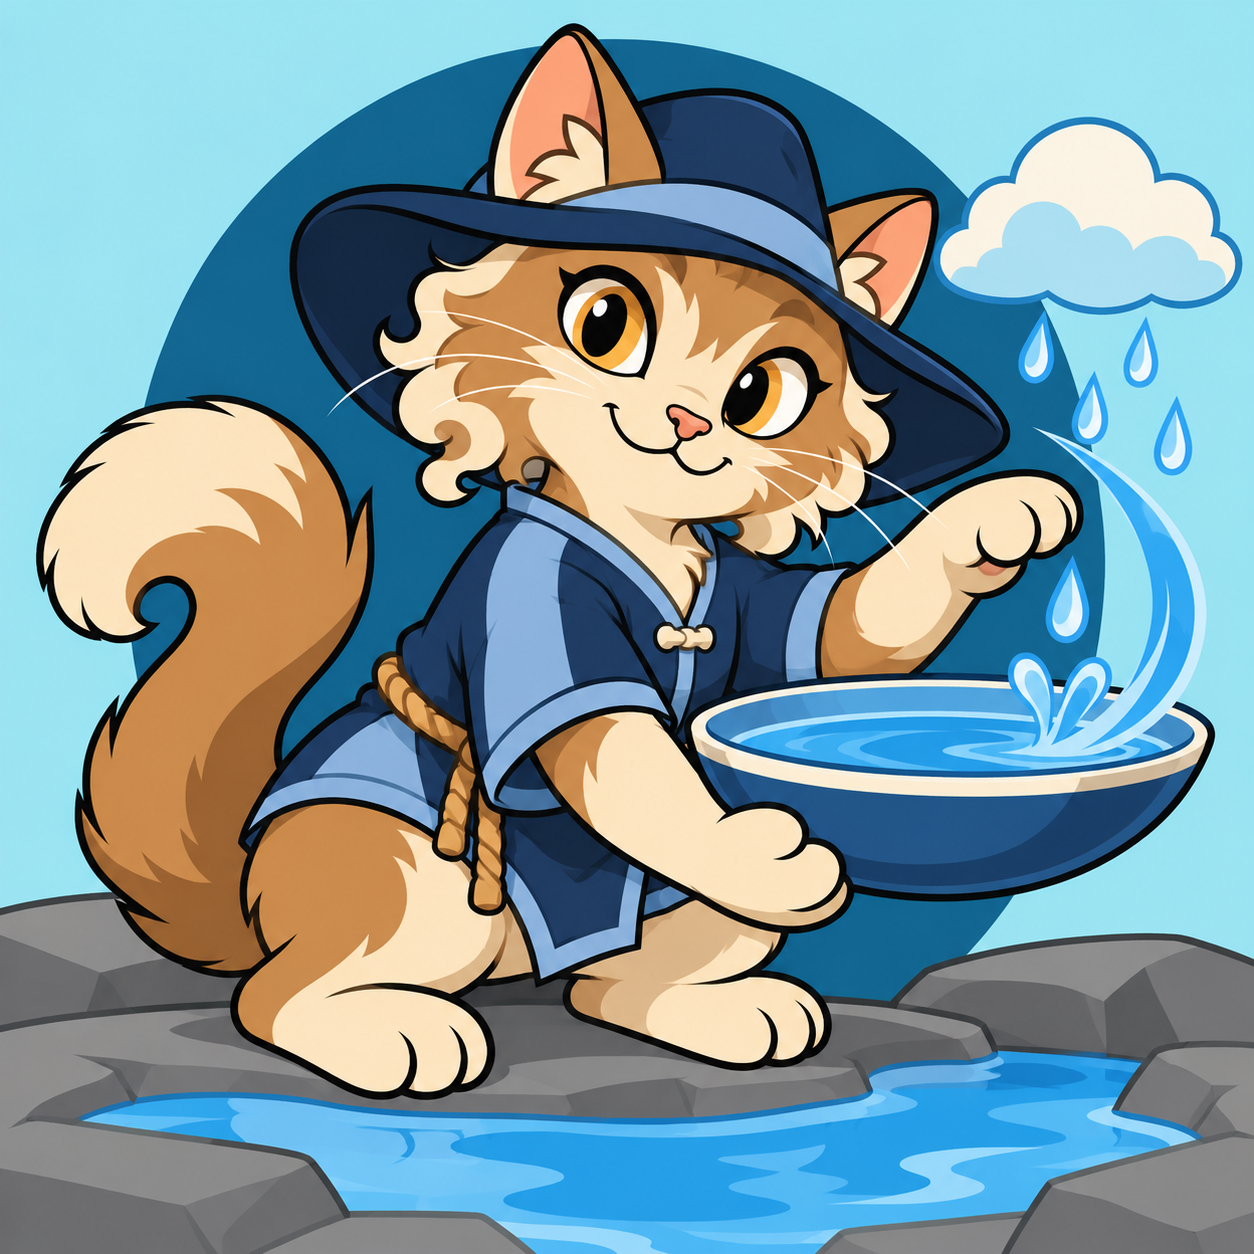
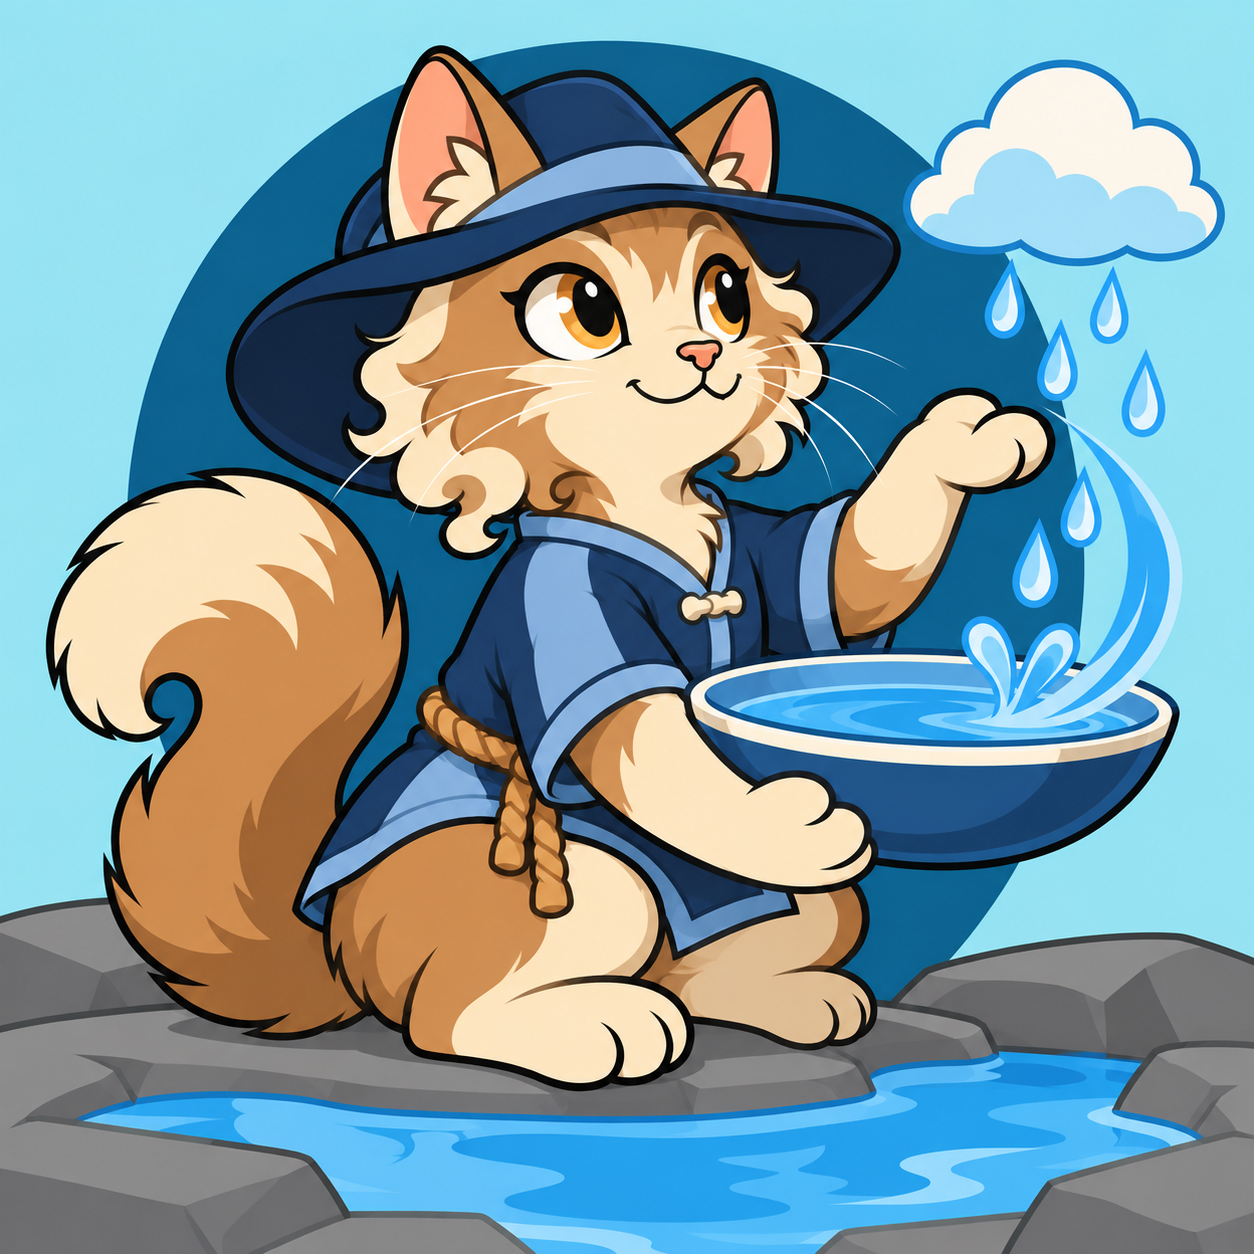
Update Siewen Rainkeeper to a seated rain-watching pose

diff --git a/test/common-rally-artwork.test.js b/test/common-rally-artwork.test.js
@@ -47,6 +47,25 @@ test("the selected Siewen artwork is Rainkeeper, with the superseded Reedbinder 
   assert.equal(siewen.revisionHistory[0].asset, "siewen-reedbinder.png");
 });
 
+test("Siewen's seated rain-watching pose preserves his identity and original artwork", () => {
+  const siewen = manifest.cards[2];
+  assert.match(siewen.poseDescription, /Low seated right-facing three-quarter pose/);
+  assert.match(siewen.poseDescription, /amber eyes looking upward/);
+  assert.match(siewen.latestRevisionPrompt, /exactly TWO short connected forelegs and TWO short connected hind legs/);
+  assert.match(siewen.latestRevisionPrompt, /The SAME blue ceramic basin with cream rim/);
+  assert.match(siewen.latestRevisionPrompt, /The SAME short navy medieval tunic/);
+  assert.deepEqual(siewen.poseReferenceImages, ["assets/cards/four-lane/siewen-rainkeeper-original-pose.png"]);
+  assert.match(siewen.poseGenerationSource, /Built-in ImageGen/);
+  const backup = siewen.revisionHistory.at(-1);
+  assert.equal(backup.asset, "siewen-rainkeeper-original-pose.png");
+  const previousArtwork = readFileSync(new URL(backup.asset, artworkFolder));
+  const currentArtwork = readFileSync(new URL(siewen.asset, artworkFolder));
+  assert.notDeepEqual(currentArtwork, previousArtwork);
+  assert.equal(previousArtwork.readUInt32BE(16), 1254);
+  assert.equal(previousArtwork.readUInt32BE(20), 1254);
+  assert.deepEqual(siewen.intendedStats, { rarity: "common", role: "rally", power: 4 });
+});
+
 test("Lucan's side-on working pose retains his design and Jiawen keeps his original artwork", () => {
   const lucan = manifest.cards[0];
   assert.match(lucan.poseDescription, /Left-facing side-on seated working pose/);
